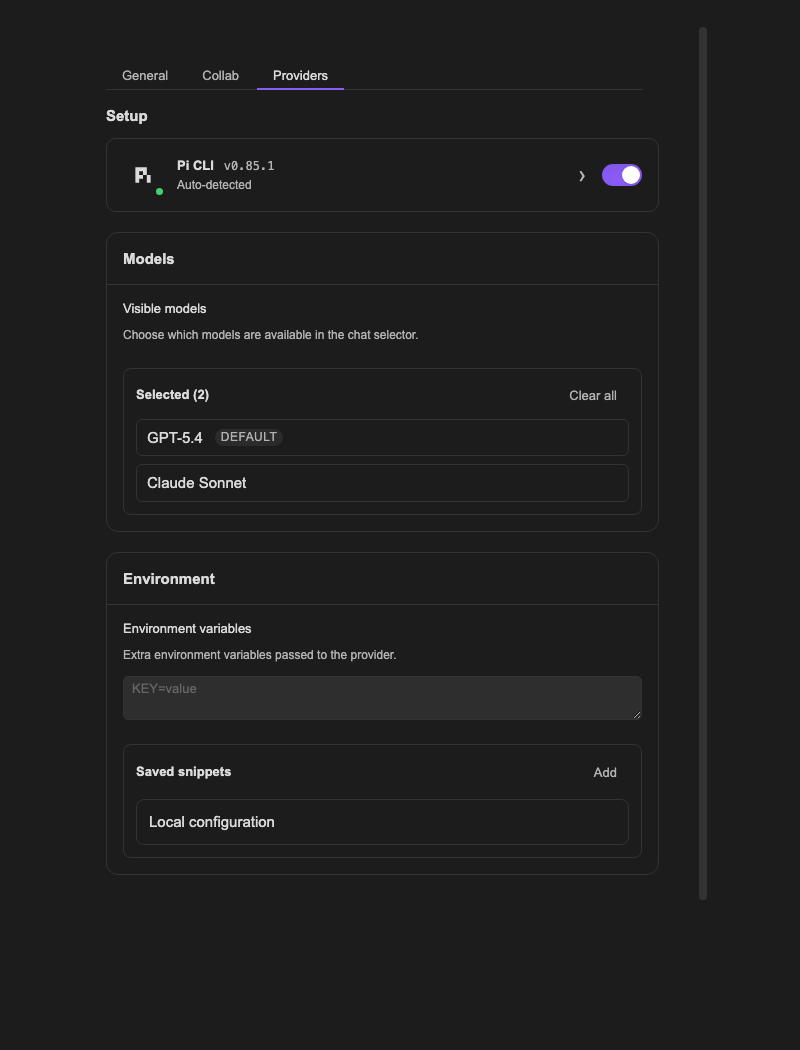
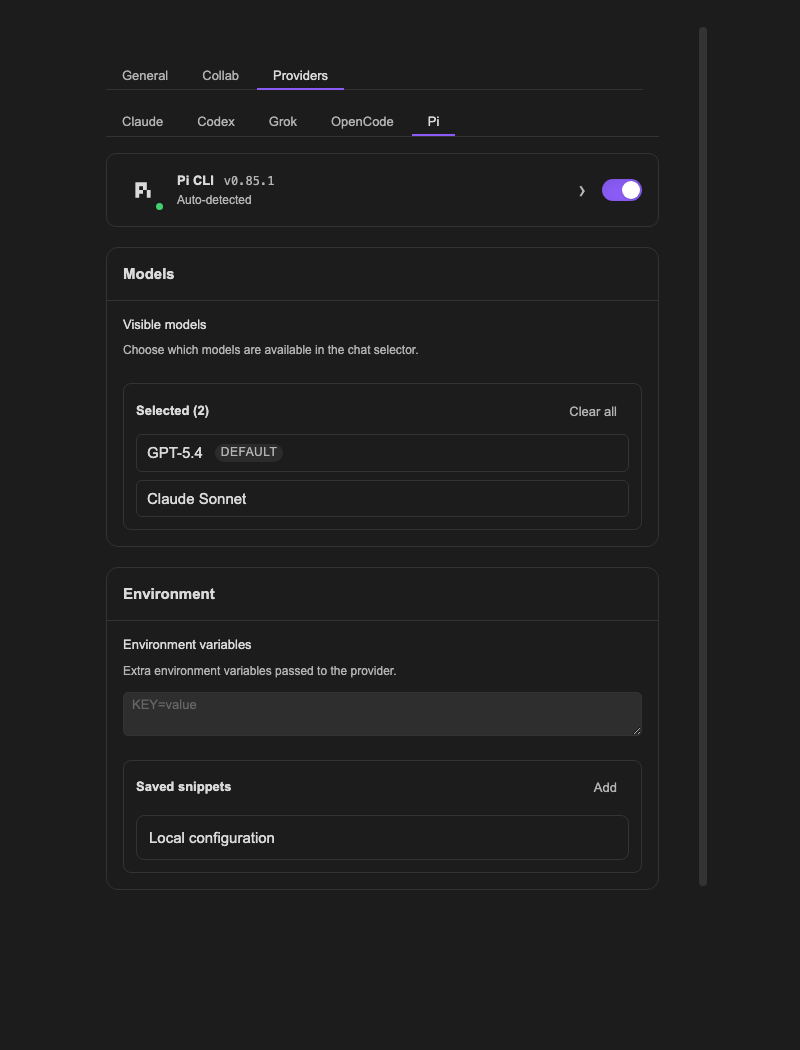
style: align provider tabs and remove redundant setup headings

diff --git a/src/style/settings/groups.css b/src/style/settings/groups.css
@@ -269,16 +269,17 @@
   background: transparent;
 }
 
-/* The installation card already frames the first provider section. */
-.claudian-settings .claudian-settings-provider-content > .claudian-settings-group:first-child {
-  border: 0;
+/* Installation cards stand on their own above the named provider groups. */
+.claudian-settings .claudian-settings-provider-content > div:has(> .claudian-cli-installation) {
+  margin-bottom: var(--size-4-5);
 }
 
-.claudian-settings .claudian-settings-provider-content > .claudian-settings-group:first-child > .setting-item-heading {
-  padding: 0 0 var(--size-4-3);
-  border: 0;
+.claudian-settings .claudian-settings-provider-tabs {
+  gap: 2px;
+  border-bottom: 1px solid var(--background-modifier-border);
+  margin-bottom: var(--size-4-4);
 }
 
-.claudian-settings .claudian-settings-provider-content > .claudian-settings-group:first-child > .claudian-settings-group-body {
-  padding: 0;
+.claudian-settings button.claudian-settings-provider-tab {
+  padding: 8px 16px;
 }

diff --git a/src/providers/opencode/ui/OpencodeSettingsTab.ts b/src/providers/opencode/ui/OpencodeSettingsTab.ts
@@ -50,8 +50,6 @@ export const opencodeSettingsTabRenderer: ProviderSettingsTabRenderer = {
     const settingsBag = context.plugin.settings as unknown as Record<string, unknown>;
     const hostnameKey = getHostnameKey();
 
-    new Setting(container).setName('Setup').setHeading();
-
     const enablement: Omit<ProviderEnablementSettingOptions, 'container' | 'description'> = {
       getValue: () => getOpencodeProviderSettings(settingsBag).enabled,
       name: t('settings.providerEnablement.name', { provider: 'OpenCode' }),

diff --git a/src/providers/pi/ui/PiSettingsTab.ts b/src/providers/pi/ui/PiSettingsTab.ts
@@ -43,8 +43,6 @@ export const piSettingsTabRenderer: ProviderSettingsTabRenderer = {
     const hostnameKey = getHostnameKey();
     const workspace = maybeGetPiWorkspaceServices();
 
-    new Setting(container).setName('Setup').setHeading();
-
     const enablement: Omit<ProviderEnablementSettingOptions, 'container' | 'description'> = {
       getValue: () => getPiProviderSettings(settingsBag).enabled,
       name: t('settings.providerEnablement.name', { provider: 'Pi' }),

diff --git a/src/providers/claude/ui/ClaudeSettingsTab.ts b/src/providers/claude/ui/ClaudeSettingsTab.ts
@@ -56,8 +56,6 @@ export const claudeSettingsTabRenderer: ProviderSettingsTabRenderer = {
 
     // --- Setup ---
 
-    new Setting(container).setName(t('settings.setup')).setHeading();
-
     const enablement: Omit<ProviderEnablementSettingOptions, 'container' | 'description'> = {
       getValue: () => getClaudeProviderSettings(settingsBag).enabled,
       name: t('settings.providerEnablement.name', { provider: 'Claude' }),

diff --git a/src/providers/codex/ui/CodexSettingsTab.ts b/src/providers/codex/ui/CodexSettingsTab.ts
@@ -45,8 +45,6 @@ export const codexSettingsTabRenderer: ProviderSettingsTabRenderer = {
 
     // --- Setup ---
 
-    new Setting(container).setName(t('settings.setup')).setHeading();
-
     const enablement: Omit<ProviderEnablementSettingOptions, 'container' | 'description'> = {
       getValue: () => getCodexProviderSettings(settingsBag).enabled,
       name: t('settings.providerEnablement.name', { provider: 'Codex' }),

diff --git a/src/providers/grok/ui/GrokSettingsTab.ts b/src/providers/grok/ui/GrokSettingsTab.ts
@@ -61,8 +61,6 @@ export const grokSettingsTabRenderer: ProviderSettingsTabRenderer = {
         : 'empty';
     };
 
-    new Setting(container).setName('Setup').setHeading();
-
     const enablement: Omit<ProviderEnablementSettingOptions, 'container' | 'description'> = {
       getValue: () => getGrokProviderSettings(settingsBag).enabled,
       name: t('settings.providerEnablement.name', { provider: 'Grok' }),
